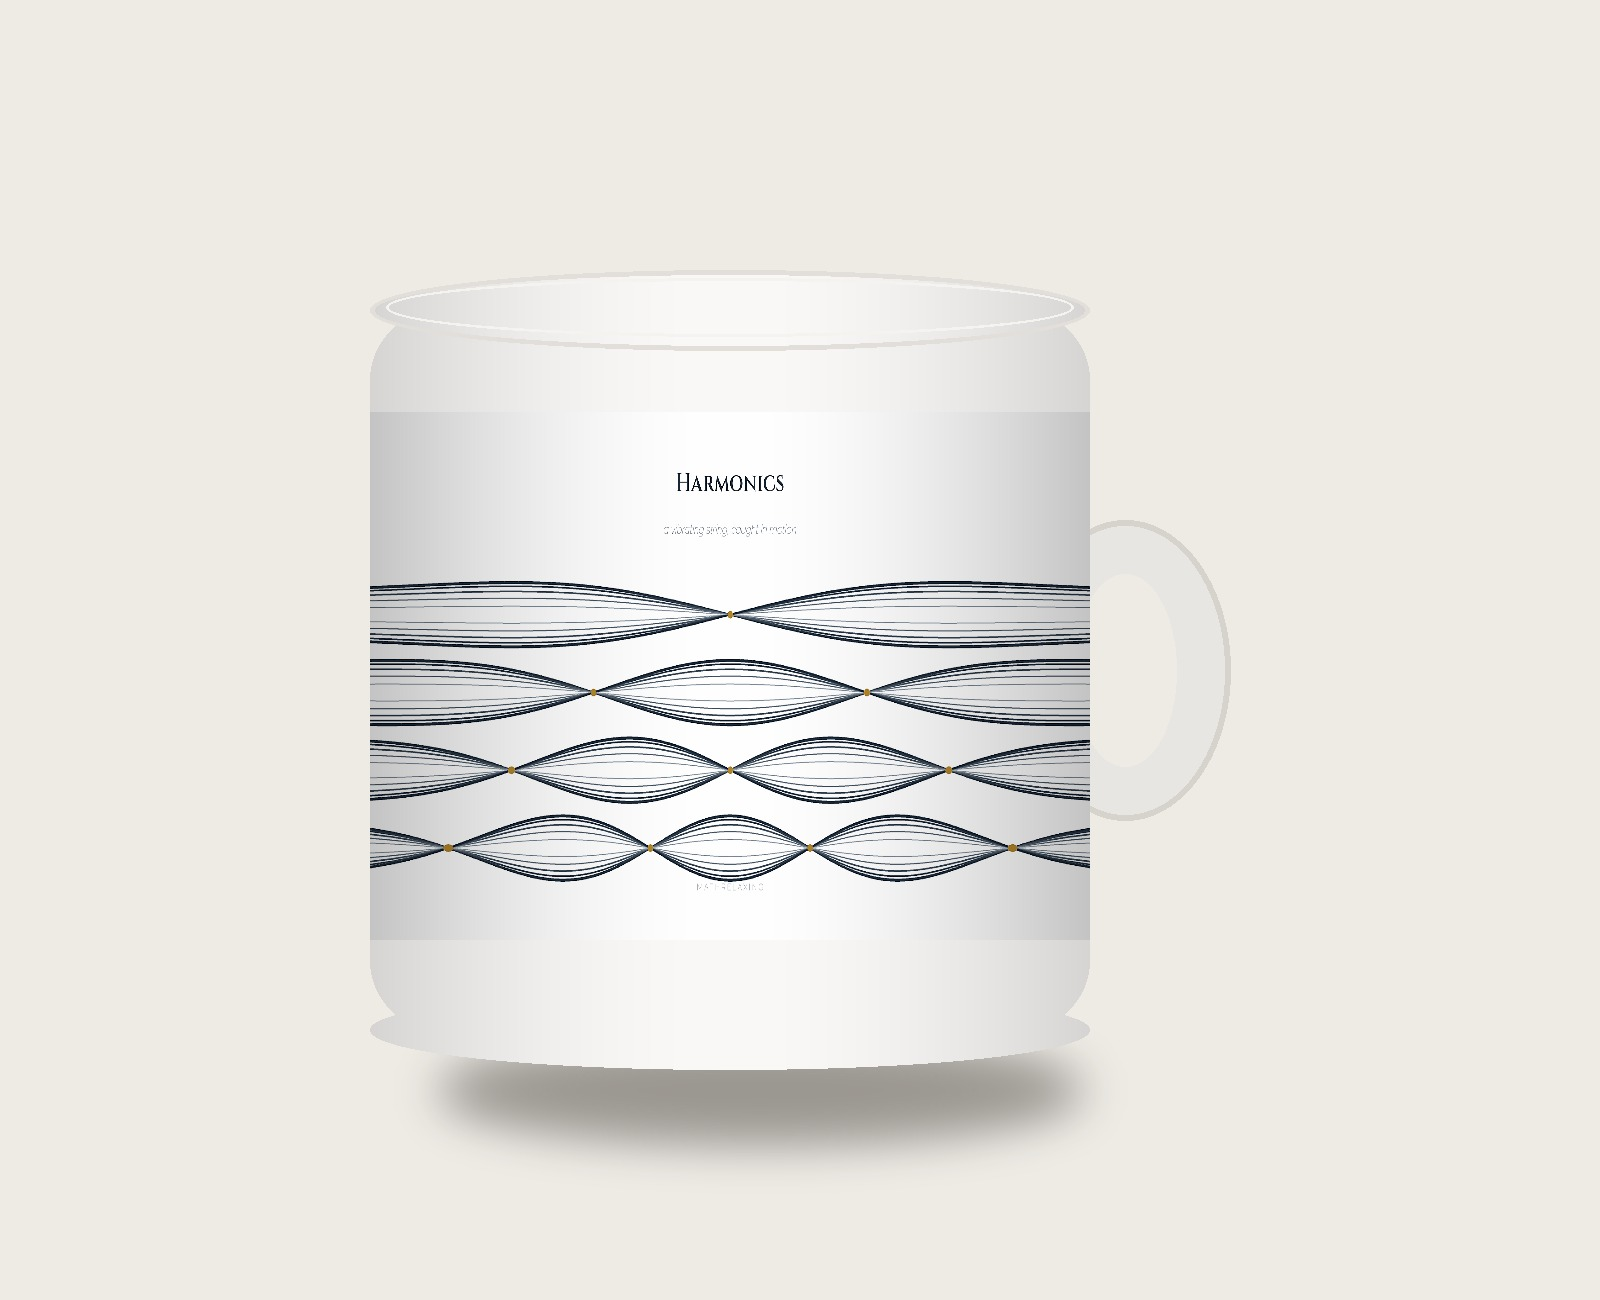
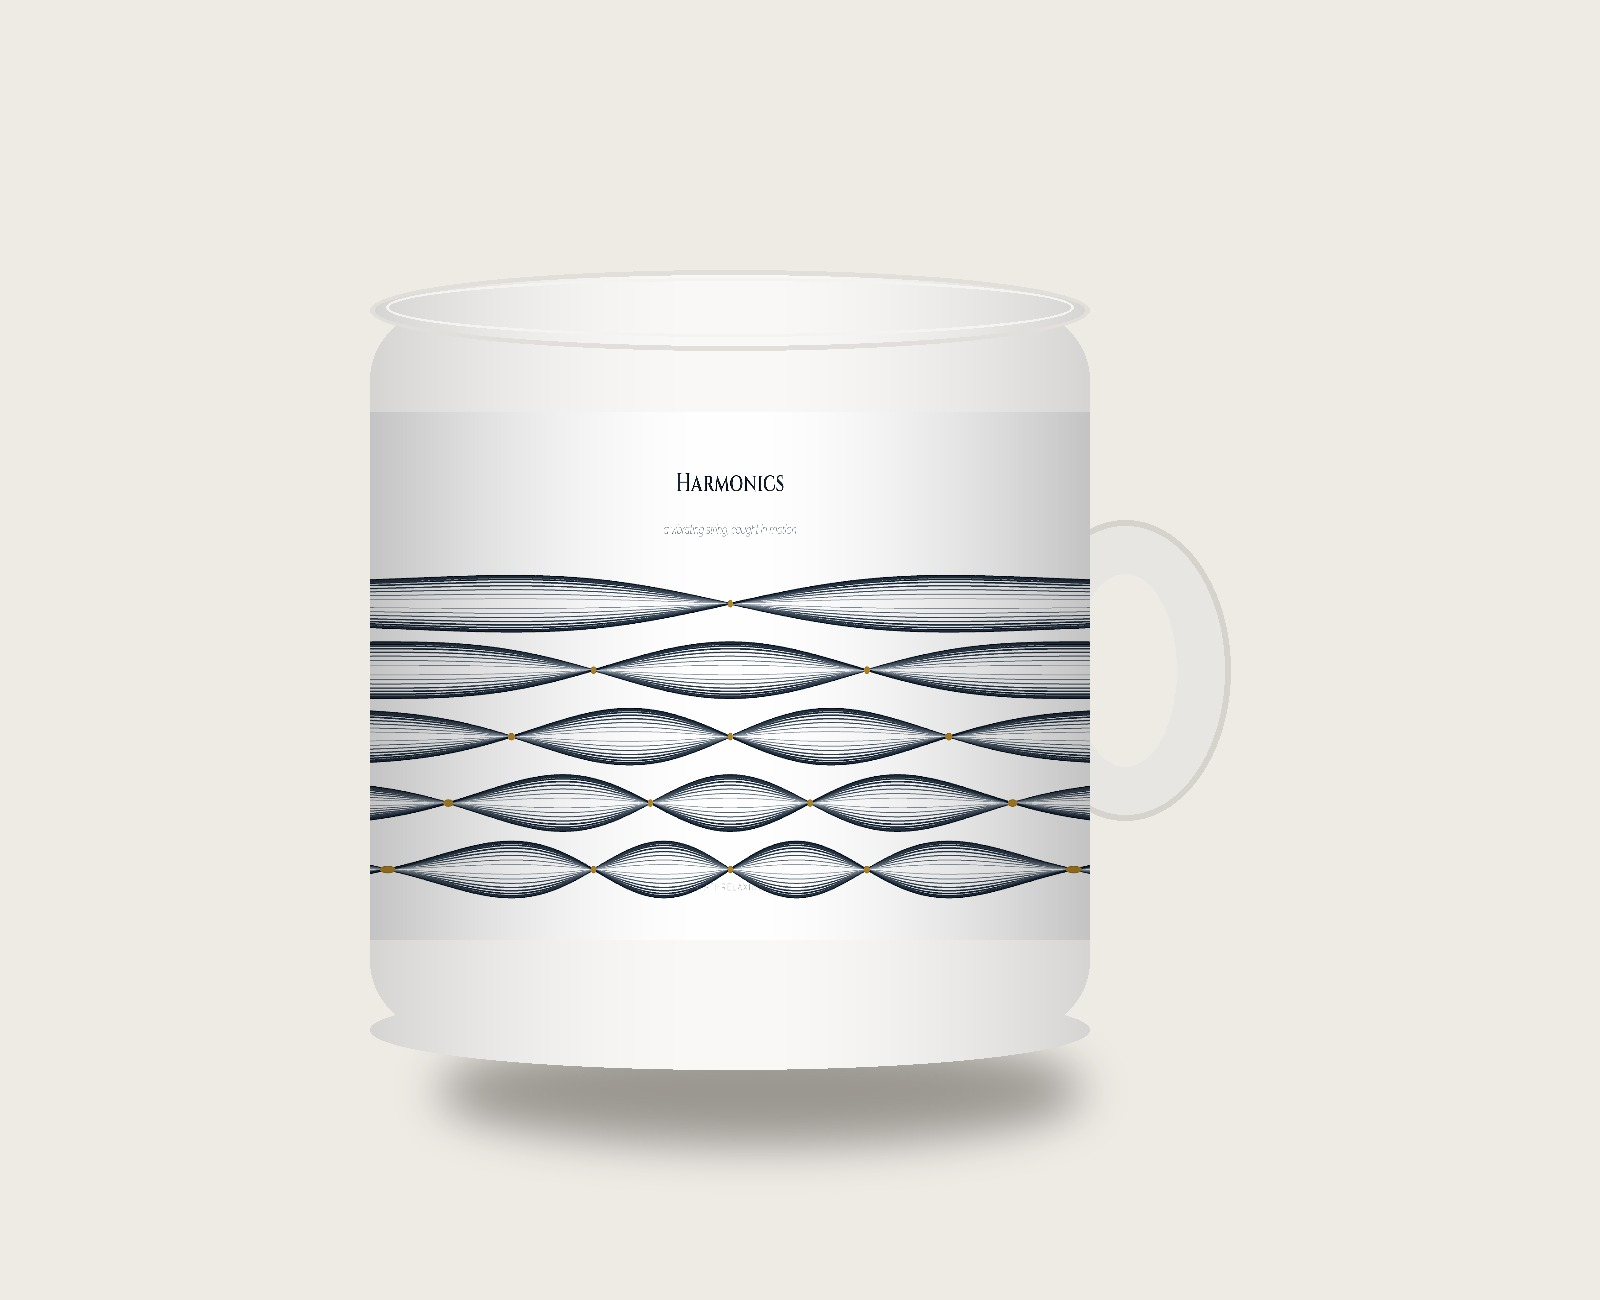
Denser mug designs: faster beat (Superposition), modes 2-6 (Harmonics)
Superposition now sin8x+sin12x (10 oscillations, 4 beat bellies); Harmonics
adds a 5th row and more phase snapshots for a fuller weave. Live products
updated and republished.

Claude-Session: https://claude.ai/code/session_01H2HkvfGi1sYBsuUMaK5vgt

Changed region(s): [[0.2188, 0.4308, 0.6875, 0.7077]]

diff --git a/printify/mug_designs.py b/printify/mug_designs.py
@@ -91,26 +91,28 @@ def d_unrolled():
     im, d = _canvas(); w, h = W*SS, H*SS
     mid = int(h*0.56); amp = int(h*0.31)
     d.line([(0, mid), (w, mid)], fill=FAINT, width=SS)
-    xs = np.linspace(0, w, 5000)
+    xs = np.linspace(0, w, 6000)
     t = 2*np.pi*xs/w
-    f1, f2 = 5, 7                      # close freqs -> beats; integers = seamless
+    f1, f2 = 8, 12                     # integers = seamless; beat = (f2-f1)/2 = 2
+    beat = (f2 - f1)/2.0
     w1, w2 = np.sin(f1*t), np.sin(f2*t)
-    s = w1 + w2                        # = 2 cos(t) sin(6t): carrier 6, envelope cos t
+    s = w1 + w2                        # = 2 cos(2t) sin(10t): carrier 10, 2 beat bellies
     sc = amp/2.0
     gold_soft = tuple(int(a*0.5 + b*0.5) for a, b in zip(GOLD, WHITE))
     gray_soft = (150, 160, 172)
     # faint component waves
-    d.line(_poly(xs, mid - sc*w1), fill=gray_soft, width=int(3*SS), joint="curve")
-    d.line(_poly(xs, mid - sc*w2), fill=gold_soft, width=int(3*SS), joint="curve")
-    # beat envelope ±amp·|cos t| as gold dotted guides
-    env = amp*np.cos(t)
+    d.line(_poly(xs, mid - sc*w1), fill=gray_soft, width=int(2*SS), joint="curve")
+    d.line(_poly(xs, mid - sc*w2), fill=gold_soft, width=int(2*SS), joint="curve")
+    # beat envelope ±amp·|cos(beat·t)| as gold dotted guides
+    env = amp*np.cos(beat*t)
     epts = _poly(xs, mid - env) + _poly(xs, mid + env)
-    for k in range(0, len(epts), 34):
+    for k in range(0, len(epts), 30):
         x, y = epts[k]; d.ellipse([x-2*SS, y-2*SS, x+2*SS, y+2*SS], fill=GOLD)
     # bold resultant sum
-    d.line(_poly(xs, mid - sc*s), fill=INK, width=int(9*SS), joint="curve")
-    # beat nodes (where the envelope pinches: t = π/2, 3π/2) in gold
-    for frac in (0.25, 0.75):
+    d.line(_poly(xs, mid - sc*s), fill=INK, width=int(8*SS), joint="curve")
+    # beat nodes where the envelope pinches (cos(beat·t) = 0) in gold
+    for k in range(int(2*beat)):
+        frac = ((np.pi/2 + k*np.pi)/beat)/(2*np.pi)
         nx = int(w*frac)
         d.ellipse([nx-8*SS, mid-8*SS, nx+8*SS, mid+8*SS], fill=GOLD)
     # captions
@@ -163,13 +165,13 @@ def d_harmonics():
     """Each mode drawn at many time phases, so the string fills with woven
     spindle/lens shapes between its nodes — dense and alive, still seamless."""
     im, d = _canvas(); w, h = W*SS, H*SS
-    modes = [2, 3, 4, 5]
-    top, bot = int(h*0.31), int(h*0.90)
+    modes = [2, 3, 4, 5, 6]
+    top, bot = int(h*0.30), int(h*0.93)
     band = (bot - top) / len(modes)
-    xs = np.linspace(0, w, 2600)
-    ords = {2: "2nd", 3: "3rd", 4: "4th", 5: "5th"}
+    xs = np.linspace(0, w, 2800)
+    ords = {2: "2nd", 3: "3rd", 4: "4th", 5: "5th", 6: "6th"}
     LIGHT = (196, 205, 214)
-    phases = np.linspace(0, np.pi, 13)         # cos(ph): +1 … 0 … −1
+    phases = np.linspace(0, np.pi, 19)         # cos(ph): +1 … 0 … −1
     for i, n in enumerate(modes):
         cy = int(top + band*(i+0.5)); a = band*0.42
         shape = np.sin(n*np.pi*xs/w)           # standing mode (ends at 0 -> seamless)
